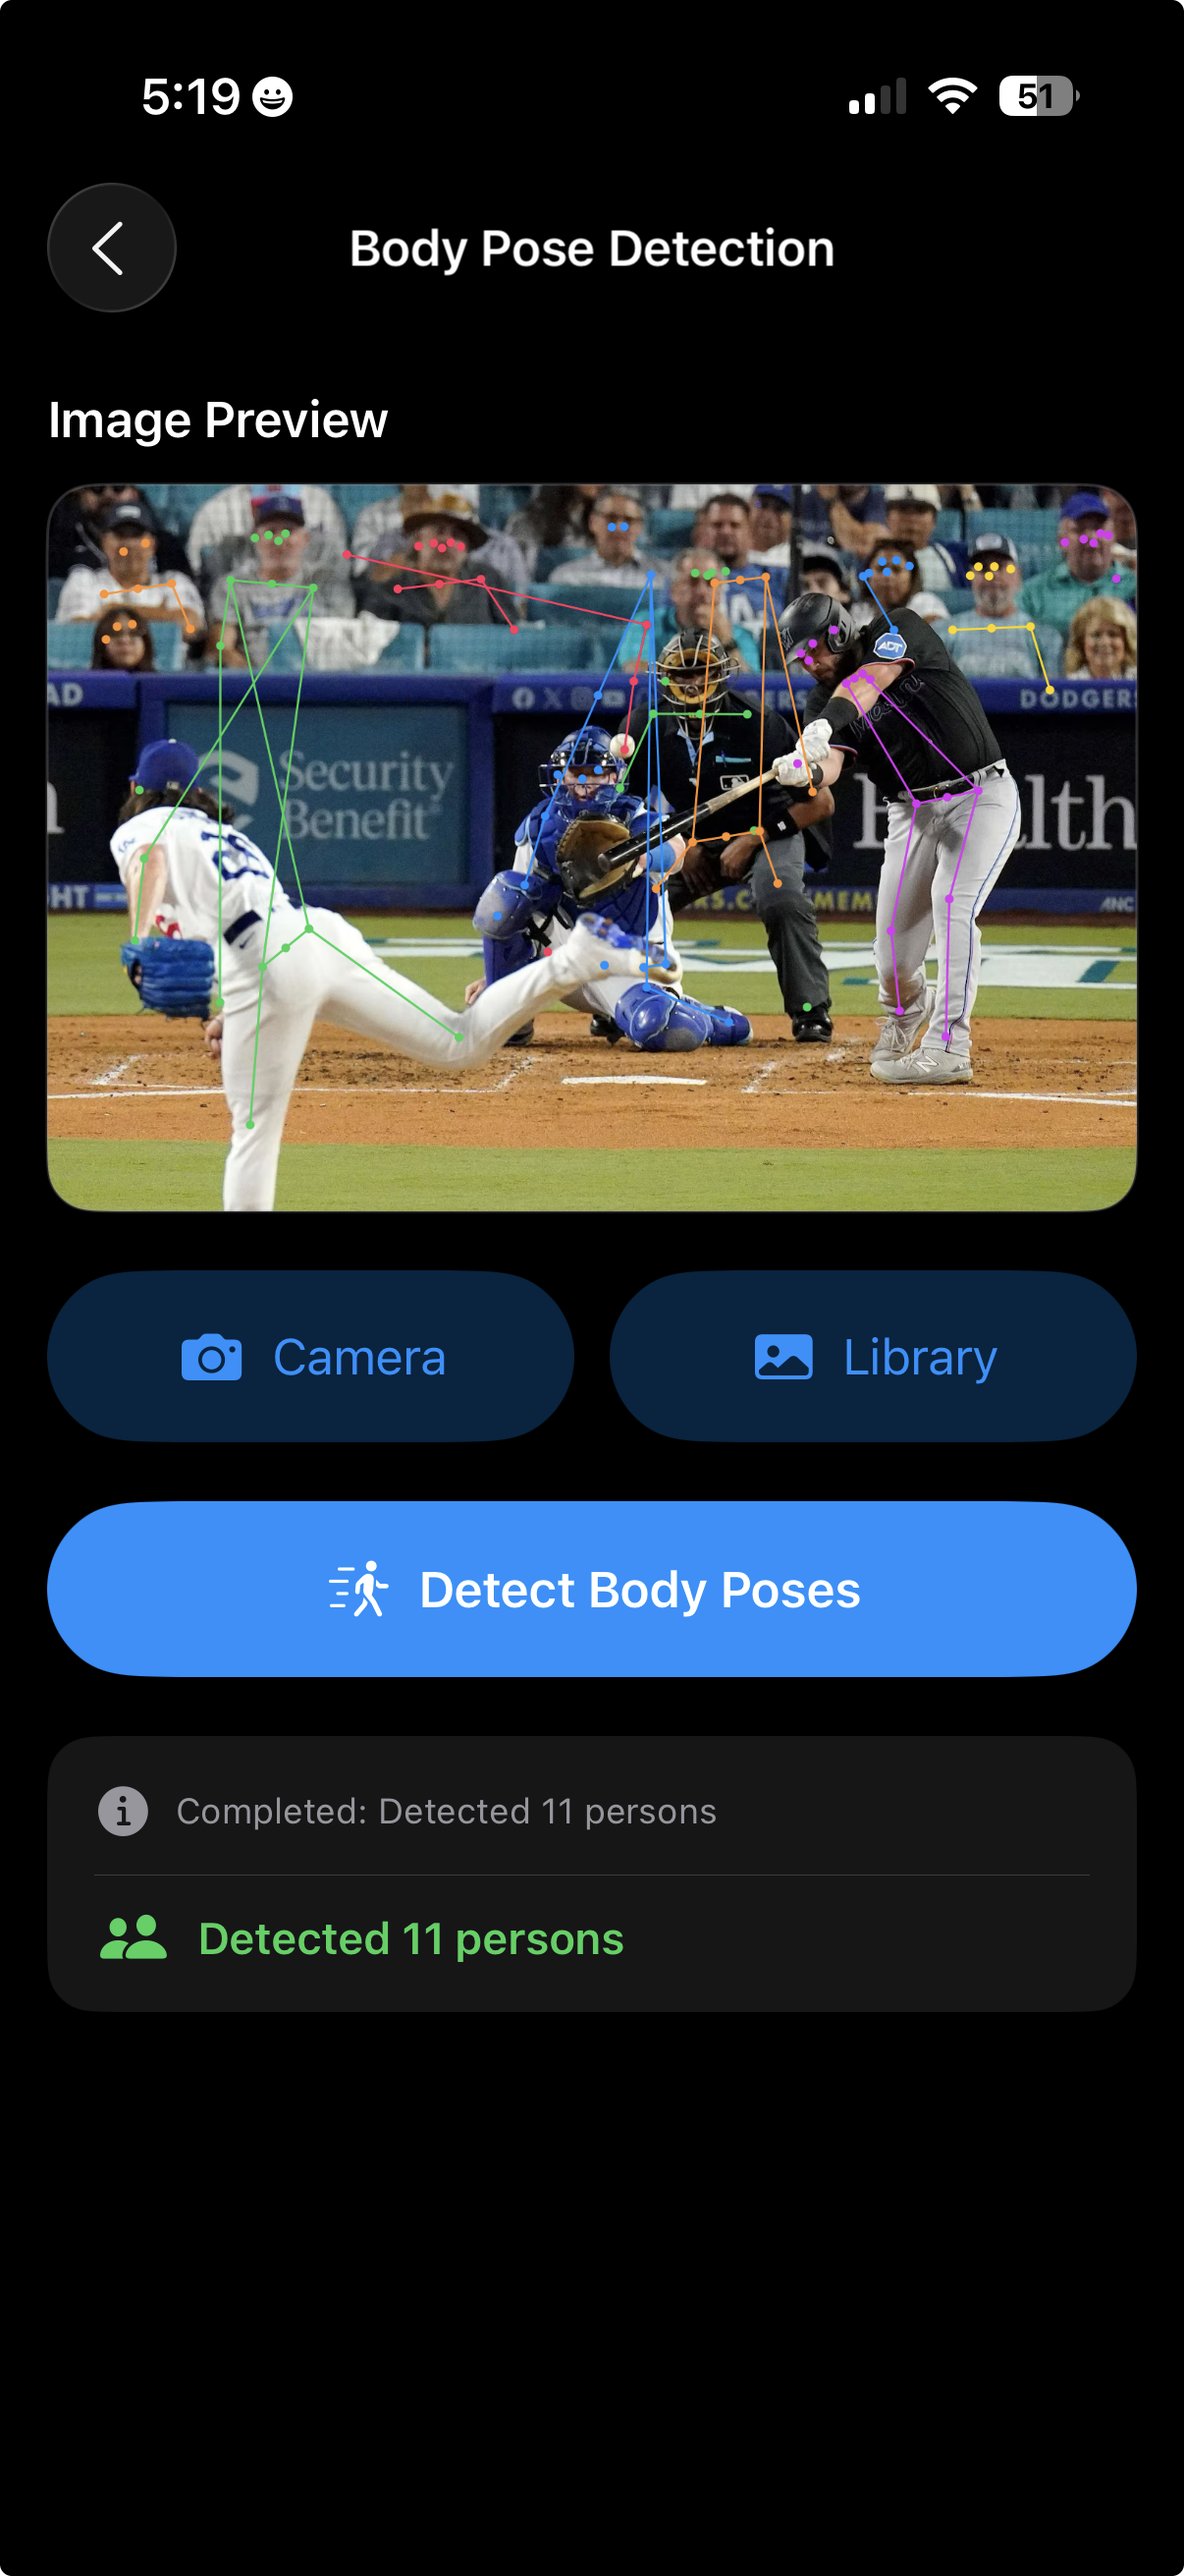
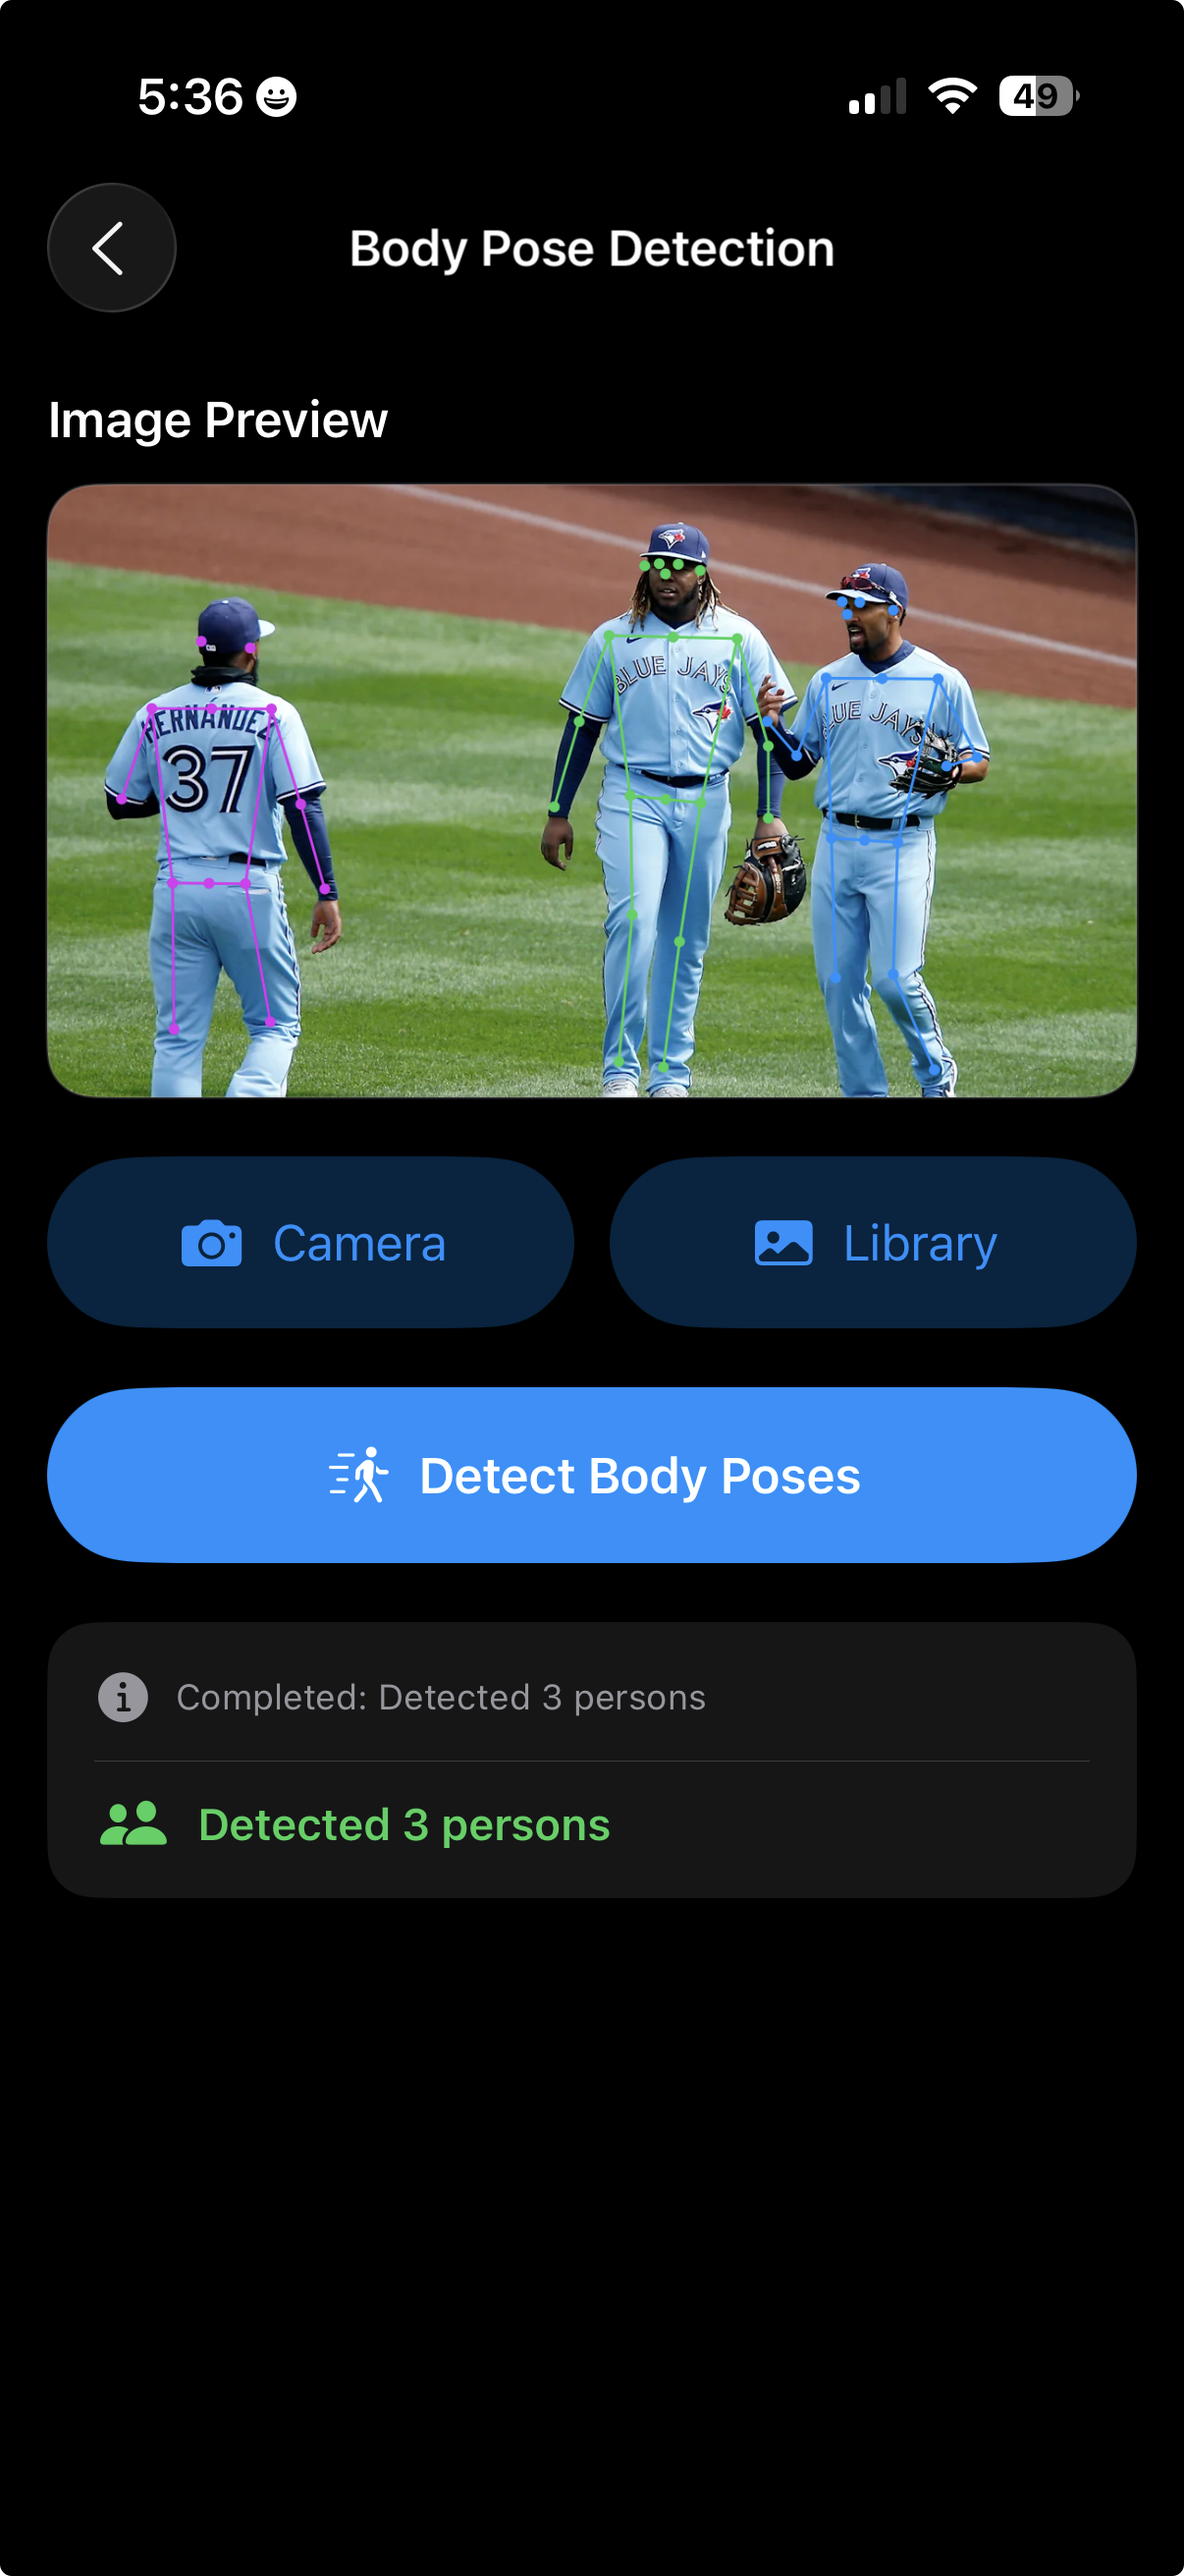
fixed bug with opening library and updated image2

diff --git a/VisionForFun2/BodyPoseDetectionView.swift b/VisionForFun2/BodyPoseDetectionView.swift
@@ -13,8 +13,7 @@ struct BodyPoseDetectionView: View {
     @State private var isProcessing: Bool = false
     @State private var capturedImage: UIImage? = nil
     @State private var processedImage: UIImage? = nil
-    @State private var showImagePicker: Bool = false
-    @State private var imageSourceType: UIImagePickerController.SourceType = .camera
+    @State private var imageSourceType: UIImagePickerController.SourceType? = nil
     @State private var detectedPeopleCount: Int = 0
     @Environment(\.colorScheme) var colorScheme
 
@@ -37,12 +36,16 @@ struct BodyPoseDetectionView: View {
         }
         .navigationTitle("Body Pose Detection")
         .navigationBarTitleDisplayMode(.inline)
-        .sheet(isPresented: $showImagePicker) {
-            ImagePicker(sourceType: imageSourceType) { image in
+        .sheet(item: Binding(
+            get: { imageSourceType.map { SourceTypeWrapper(sourceType: $0) } },
+            set: { imageSourceType = $0?.sourceType }
+        )) { wrapper in
+            ImagePicker(sourceType: wrapper.sourceType) { image in
                 capturedImage = image
                 processedImage = nil
                 detectedPeopleCount = 0
                 status = "Image captured - Ready to detect poses"
+                imageSourceType = nil
             }
         }
     }
@@ -99,7 +102,6 @@ struct BodyPoseDetectionView: View {
         HStack(spacing: 12) {
             Button(action: {
                 imageSourceType = .camera
-                showImagePicker = true
             }) {
                 HStack {
                     Image(systemName: "camera.fill")
@@ -113,7 +115,6 @@ struct BodyPoseDetectionView: View {
             
             Button(action: {
                 imageSourceType = .photoLibrary
-                showImagePicker = true
             }) {
                 HStack {
                     Image(systemName: "photo.fill")

diff --git a/VisionForFun2/TextRecognitionView.swift b/VisionForFun2/TextRecognitionView.swift
@@ -13,8 +13,7 @@ struct TextRecognitionView: View {
     @State private var status: String = "Ready - Tap to capture or select an image"
     @State private var isProcessing: Bool = false
     @State private var capturedImage: UIImage? = nil
-    @State private var showImagePicker: Bool = false
-    @State private var imageSourceType: UIImagePickerController.SourceType = .camera
+    @State private var imageSourceType: UIImagePickerController.SourceType? = nil
     @Environment(\.colorScheme) var colorScheme
 
     var body: some View {
@@ -36,11 +35,15 @@ struct TextRecognitionView: View {
         }
         .navigationTitle("Text Recognition")
         .navigationBarTitleDisplayMode(.inline)
-        .sheet(isPresented: $showImagePicker) {
-            ImagePicker(sourceType: imageSourceType) { image in
+        .sheet(item: Binding(
+            get: { imageSourceType.map { SourceTypeWrapper(sourceType: $0) } },
+            set: { imageSourceType = $0?.sourceType }
+        )) { wrapper in
+            ImagePicker(sourceType: wrapper.sourceType) { image in
                 capturedImage = image
                 status = "Image captured - Ready to recognize text"
                 recognizedText = ""
+                imageSourceType = nil
             }
         }
     }
@@ -97,7 +100,6 @@ struct TextRecognitionView: View {
         HStack(spacing: 12) {
             Button(action: {
                 imageSourceType = .camera
-                showImagePicker = true
             }) {
                 HStack {
                     Image(systemName: "camera.fill")
@@ -111,7 +113,6 @@ struct TextRecognitionView: View {
             
             Button(action: {
                 imageSourceType = .photoLibrary
-                showImagePicker = true
             }) {
                 HStack {
                     Image(systemName: "photo.fill")

diff --git a/VisionForFun2/ImagePicker.swift b/VisionForFun2/ImagePicker.swift
@@ -8,6 +8,15 @@
 import SwiftUI
 import UIKit
 
+// MARK: - Source Type Wrapper
+
+struct SourceTypeWrapper: Identifiable {
+    let id = UUID()
+    let sourceType: UIImagePickerController.SourceType
+}
+
+// MARK: - Image Picker
+
 struct ImagePicker: UIViewControllerRepresentable {
     let sourceType: UIImagePickerController.SourceType
     let onImagePicked: (UIImage) -> Void
